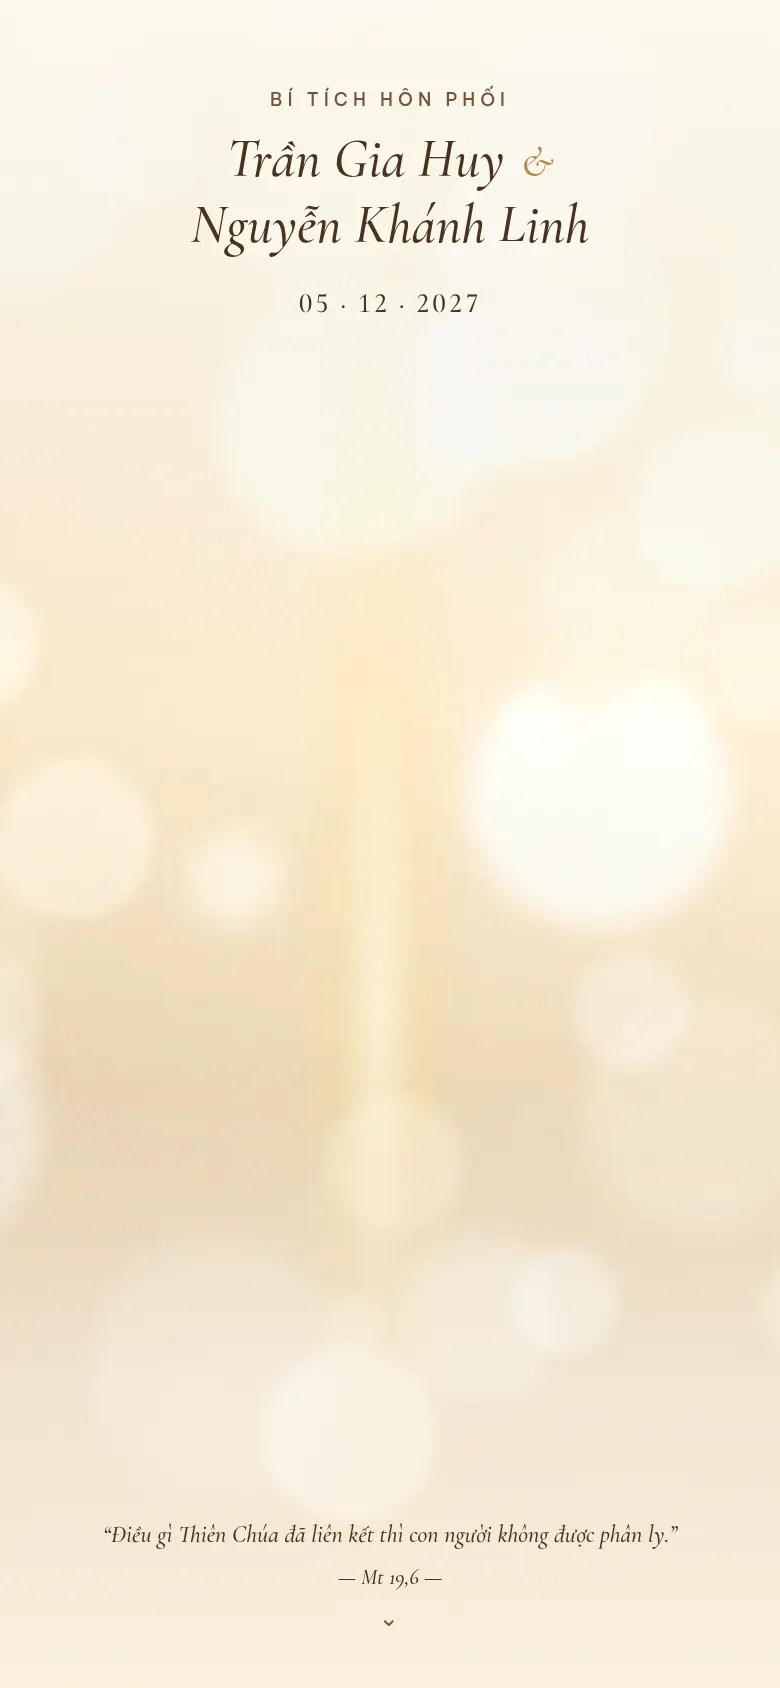
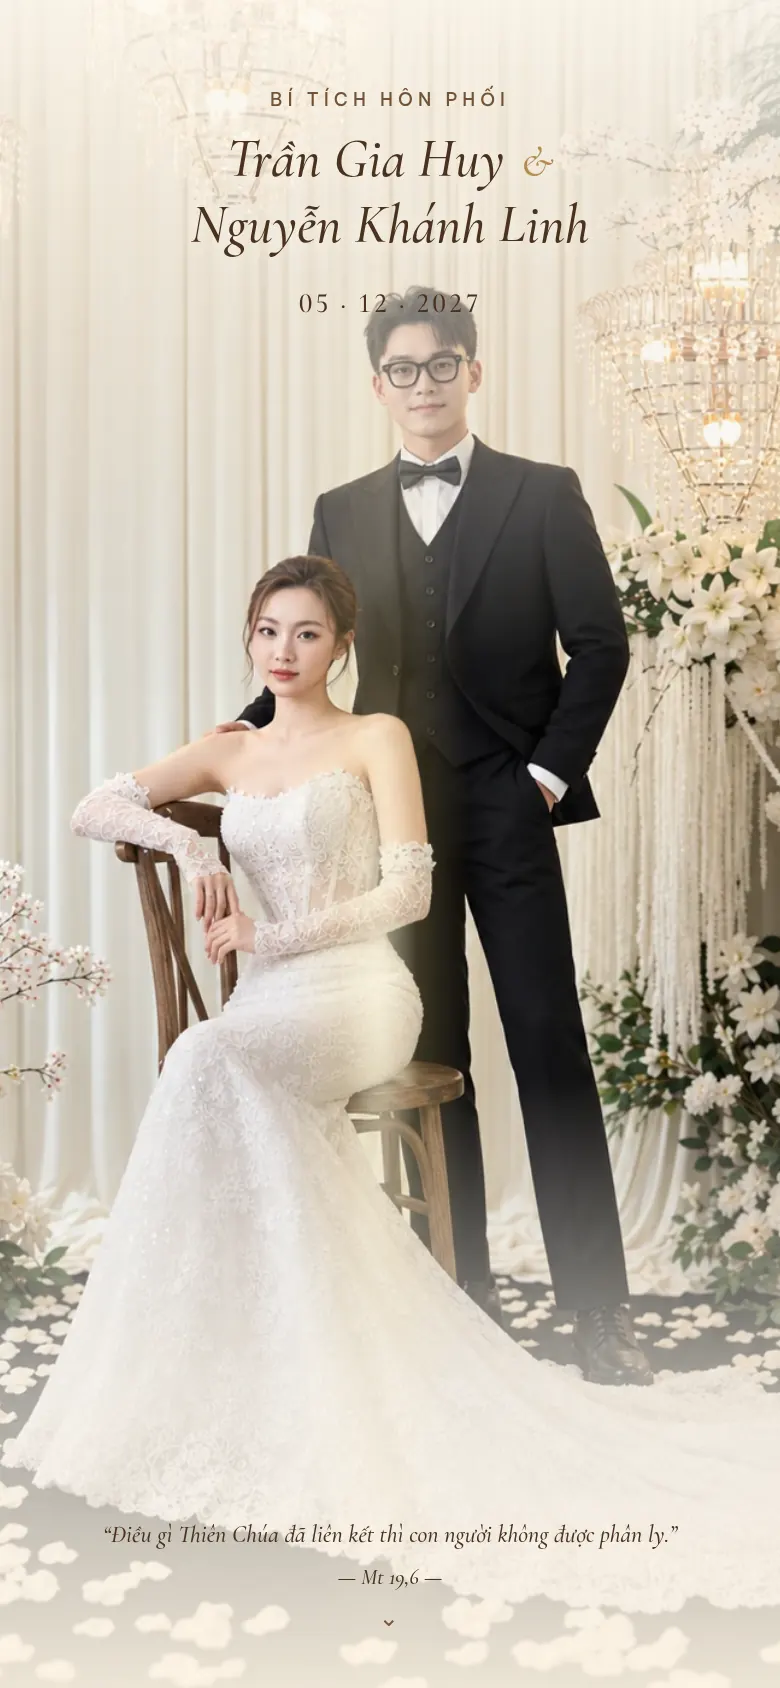
WC-SHOWROOM-HA-02: Hồng Ân v2 reuses the Elegant Editorial photos
Product Owner decision (2026-11-05): the sixth showroom card should show a
couple rather than the abstract mood bokeh it shipped with. Hồng Ân now maps
the existing Elegant Editorial photographs instead of gaining a set of its
own, the same way Se Duyên reuses Vietnamese Heritage.

No new image file. demo-media.ts maps the existing EE_* constants into
DEMO_TEMPLATE_SLOT_PHOTO_SETS, so there is one set of bytes, one licence and
one provenance entry. The Elegant Editorial v1 mapping is untouched: its demo
still resolves all ten photos exactly as before.

  openingPhoto  01  behind the church doors, becomes the full-bleed hero
  storyPhoto    02  inside the pointed-arch cutout
  gallery       03, 04, 09, 06, 07, 05
  closingPhoto  05  same bytes as the album's last tile

Keyed by registeredRendererKey("hong-an", 2) because the renderer static
boundary forbids that key literal outside the renderer's own files. Hồng Ân
declares no person-bound slot, so every frame is a layout position, identical
for COMMON, GROOM and BRIDE; EE_GROOM and EE_BRIDE are album positions here,
never presented as one person's photograph.

hong-an-cover.webp re-captured by the usual recipe (19 KB -> 70 KB;
photographs compress less than flat bokeh). Visual QA at 390x844 DPR 2: both
faces clear of the name block, names, date and scripture legible over the
renderer's veil, no face cut by the 6:13 crop.

hong-an-inside.webp kept byte-for-byte: it frames the ceremony section, which
[…]

diff --git a/lib/showroom/demo/demo-media.ts b/lib/showroom/demo/demo-media.ts
@@ -257,6 +257,39 @@ export const DEMO_TEMPLATE_SLOT_PHOTO_SETS: Readonly<Record<string, DemoTemplate
     // The closing frame fades into the lacquer ground under the thank-you line.
     closingPhoto: Object.freeze([nth(SD_PHOTOS, 10)]),
   }),
+  /**
+   * WC-SHOWROOM-HA-02 (Product Owner, 2026-11-05): Hồng Ân v2 reuses the
+   * Elegant Editorial photographs rather than copying them, the same way
+   * Se Duyên reuses Vietnamese Heritage. They are the committed showroom set
+   * shot in a white gown and dark formal suit against pale editorial light,
+   * which is the closest match to this direction's ivory-and-gold palette,
+   * and referencing the same files keeps one set of bytes and one provenance
+   * entry (`lib/showroom/demo/ASSETS.md`). No new image is introduced, and
+   * the Elegant Editorial v1 mapping above is untouched.
+   *
+   * Keyed through the production registry because the renderer static
+   * boundary forbids this renderer's key literal outside its own files.
+   *
+   * Hồng Ân declares no person-bound slot, so every frame below is a layout
+   * position, identical for COMMON, GROOM and BRIDE. `EE_GROOM` and
+   * `EE_BRIDE` are the Elegant Editorial constant names for two solo frames;
+   * here they are album positions only, never "the groom's" or "the bride's"
+   * photograph.
+   */
+  [registeredRendererKey("hong-an", 2)]: Object.freeze({
+    // Behind the two church doors from the first frame; it becomes the
+    // full-bleed hero when they open, so it carries the whole first screen.
+    openingPhoto: Object.freeze([EE_COVER]),
+    // The single frame inside the pointed-arch cutout beside the love story.
+    storyPhoto: Object.freeze([EE_SEATED]),
+    // Six tiles — the slot's recommended count — in uniform 4:5 arch-topped
+    // cells, two per row on mobile and three above the breakpoint. Opens on
+    // frames not already used above so the album stays fresh.
+    gallery: Object.freeze([EE_JOYFUL, EE_GROOM, EE_BRIDE, EE_GAZE, EE_INTIMATE, EE_CLOSE]),
+    // Closes the invitation above the thank-you line; the same bytes as the
+    // album's last tile, as Romantic Minimal and Our Wedding Story do.
+    closingPhoto: Object.freeze([EE_CLOSE]),
+  }),
 });
 
 export function lookupDemoTemplateSlotPhotoSet(rendererKey: string): DemoTemplateSlotPhotoSet | undefined {

diff --git a/lib/showroom/demo/ASSETS.md b/lib/showroom/demo/ASSETS.md
@@ -161,6 +161,46 @@ Wired only for `wedding.se-duyen.v1` through `DEMO_TEMPLATE_SLOT_PHOTO_SETS`, ke
 
 Se Duyên declares **no person-bound slot**: every frame is a layout position, identical for COMMON, GROOM and BRIDE, so no photograph is presented as "the groom's" or "the bride's". The album's approved composition is four frames — a lead, a tall/small pair, then a wide foot frame — and the renderer draws the first four of the slot in order, so the landscape tea ceremony (05) is placed last, where the wide crop belongs. The renderer is unchanged: its frames cover-crop and the viewer shows every photo whole.
 
+## Hồng Ân demo photos — reused, no new files
+
+WC-SHOWROOM-HA-02 (Product Owner, 2026-11-05). The Hồng Ân showroom demo introduces **no new image files**. It
+references the Elegant Editorial WebPs above (`public/showroom/demo/elegant-editorial/photos/`) by path:
+`demo-media.ts` maps the existing `EE_*` constants into `DEMO_TEMPLATE_SLOT_PHOTO_SETS`, so there is one set of
+bytes, one licence and one provenance entry — the Elegant Editorial section above, whose fictional-origin and
+rights statement covers this use unchanged. They are fictional showroom photographs, never a real couple,
+wedding or client portfolio, and never a fallback for a customer invitation.
+
+Why that set: it is the committed showroom photography shot in a white gown and dark formal suit under pale
+editorial light, with lilies, white blossom and warm chandeliers — the closest match to Hồng Ân's ivory,
+champagne and gold direction (Công giáo / Gothic / Trang trọng). The Vietnamese Heritage set, which Se Duyên
+reuses, is áo dài against lacquer red and would fight this palette. Copying the files into a `hong-an/` folder
+would have doubled identical bytes and split one provenance record in two.
+
+The **Elegant Editorial v1 mapping is unchanged**: `DEMO_LEGACY_ROLE_PHOTO_SETS` still wires the same ten photos
+into `wedding.elegant-editorial.v1` exactly as before. Only a second, independent mapping was added.
+
+Wired for `wedding.hong-an.v2` through `DEMO_TEMPLATE_SLOT_PHOTO_SETS`, keyed by `registeredRendererKey("hong-an", 2)`
+because the renderer static boundary forbids that key literal outside the renderer's own files. Mapping, against
+the v2 editor manifest's declared slots and `maxCount`:
+
+| Slot | maxCount | Photo |
+|---|---|---|
+| `openingPhoto` | 1 | 01 — waits behind the two church doors and becomes the full-bleed hero when they open |
+| `storyPhoto` | 1 | 02 — the single frame inside the pointed-arch cutout beside the love story |
+| `gallery` | null (no limit) | 03, 04, 09, 06, 07, 05 |
+| `closingPhoto` | 1 | 05 — above the thank-you line, the same bytes as the album's last tile |
+
+Hồng Ân declares **no person-bound slot**: every frame is a layout position, identical for COMMON, GROOM and
+BRIDE, so no photograph is presented as "the groom's" or "the bride's". `EE_GROOM` and `EE_BRIDE` are the
+Elegant Editorial constant names for two solo frames (04 and 09); in this album they are positions only. The
+gallery takes six — the slot's `recommendedCount` — in uniform 4:5 arch-topped tiles, two per row on mobile and
+three above the breakpoint, and opens on frames not already used above it. Every photo is portrait 1122×1402, so
+nothing is lost to the tiles' 4:5 crop. The renderer, its CSS and the showroom catalog are unchanged.
+
+Opening-hero crop, checked at 390×844 CSS px at DPR 2 (the slot declares PORTRAIT with a `6:13` hint, and the
+renderer sets `object-fit: cover; object-position: 50% 42%`): both faces fall clear of the name block, the names,
+date and scripture line stay legible over the renderer's veil, and no face is cut by the frame.
+
 ## Template screenshots — `public/showroom/templates/`
 
 Real screenshots of the public demo pages (`/mau-thiep/<code>`, demo bar removed) from a local production build, headless Chrome, 390×844 CSS px at 2× (780×1688), WebP quality 78. `<code>-cover.webp` is the **first opened screen** — the hero the guest meets once the envelope, door or box is past, with the couple in frame; `<code>-inside.webp` is a further inner section. Re-capture whenever a renderer version, the demo data or the demo images change, and for every new template. **Before every shot, scroll the whole document once and wait until every `<img>` reports `naturalWidth > 0`**: the renderers lazy-load below-the-fold photography behind a soft placeholder, and a capture taken too early bakes that placeholder into the asset.
@@ -184,7 +224,7 @@ kept byte-for-byte, so its hash below is unchanged.
 | our-wedding-story-inside.webp | invitation card | 724b2888147fe787dda0c44ce1d9434b9ab4c27c7b2657dc2a53aa5cbe6562a7 |
 | se-duyen-cover.webp | opened hero: couple in áo dài on lacquer red | 9a0abccb4f61a6efd0166f74da9fd23044fe8c035a42fc69517f506176ea028d |
 | se-duyen-inside.webp | invitation card: Lễ Thành Hôn, date, time, lunar date | 79114db672d990f098430ceb60337a1f74e159ad38bacc855947e23ea7762ffe |
-| hong-an-cover.webp | opened hero past the church doors: names, date — **no couple, see below** | 1b8a0557cd71f00ccadb7235b75651b701a96d2a1790d0f17871f72b8d8ee0bb |
+| hong-an-cover.webp | opened hero past the church doors: couple under the names | 5a32a4278324006480cb0016d32e3eca631f8d9ce592149fbe925ccb9607f735 |
 | hong-an-inside.webp | ceremony: Nghi Lễ Hôn Phối, Lễ Thành Hôn and Lễ Vu Quy cards | 55b93bac4c9a9606da787fd4989a79755b7aeeead36537f380018d0e67beab04 |
 
 
@@ -199,15 +239,15 @@ floating contact hidden, one full scroll pass before each shot, WebP quality 78.
 one tap past the church doors (`MỞ THIỆP CƯỚI`); the inside shot is the ceremony section at its own top offset,
 holding both the Lễ Thành Hôn and the Lễ Vu Quy card with their dates, lunar dates and venues.
 
-**Hồng Ân has no demo photo set, and its cover therefore shows no couple.** `wedding.hong-an.v2` has no entry in
-`DEMO_TEMPLATE_SLOT_PHOTO_SETS`, so every photo slot — `openingPhoto`, `storyPhoto`, `gallery`, `closingPhoto` —
-falls back to the abstract mood images, and the hero behind the names is champagne bokeh rather than a
-photograph. This is the one card of the six that does not satisfy the SHOWROOM-CARD-HERO-01 intent above
-("with the couple in frame"). Choosing demo photography is a Product Owner decision for every other template
-in this file (see the DECISIONS.md amendments of 2026-10-13), so none was invented here. **When a Hồng Ân photo
-set is approved, add it to `demo-media.ts` and re-capture both files**; the slot keys the renderer declares are
-`openingPhoto` (1), `storyPhoto` (1), `gallery` (unbounded) and `closingPhoto` (1), from
-`templates/editor/wedding/hong-an-v2.ts`.
+**Amendment (WC-SHOWROOM-HA-02, 2026-11-05).** `hong-an-cover.webp` was re-captured after the Product Owner
+decided to reuse the Elegant Editorial photographs for this demo (section above). The first capture had no
+couple in frame, because Hồng Ân then had no photo set and every slot fell back to the abstract mood images;
+the hero behind the names was champagne bokeh. It now carries photo 01, so the sixth card satisfies the
+SHOWROOM-CARD-HERO-01 intent like the other five. Same framing, same recipe, same 780×1688; it grew from 19 KB
+to 70 KB because photographs compress less than flat bokeh. `hong-an-inside.webp` is **kept byte-for-byte**: it
+is framed on the ceremony section, which declares no media slot, so a fresh capture of that frame differs from
+the committed file only by WebP compression noise (mean absolute difference 1.2/255), the same reasoning that
+kept `our-wedding-story-inside.webp` unchanged.
 
 ## Social share image — `public/showroom/og-weddingclick.jpg`
 
